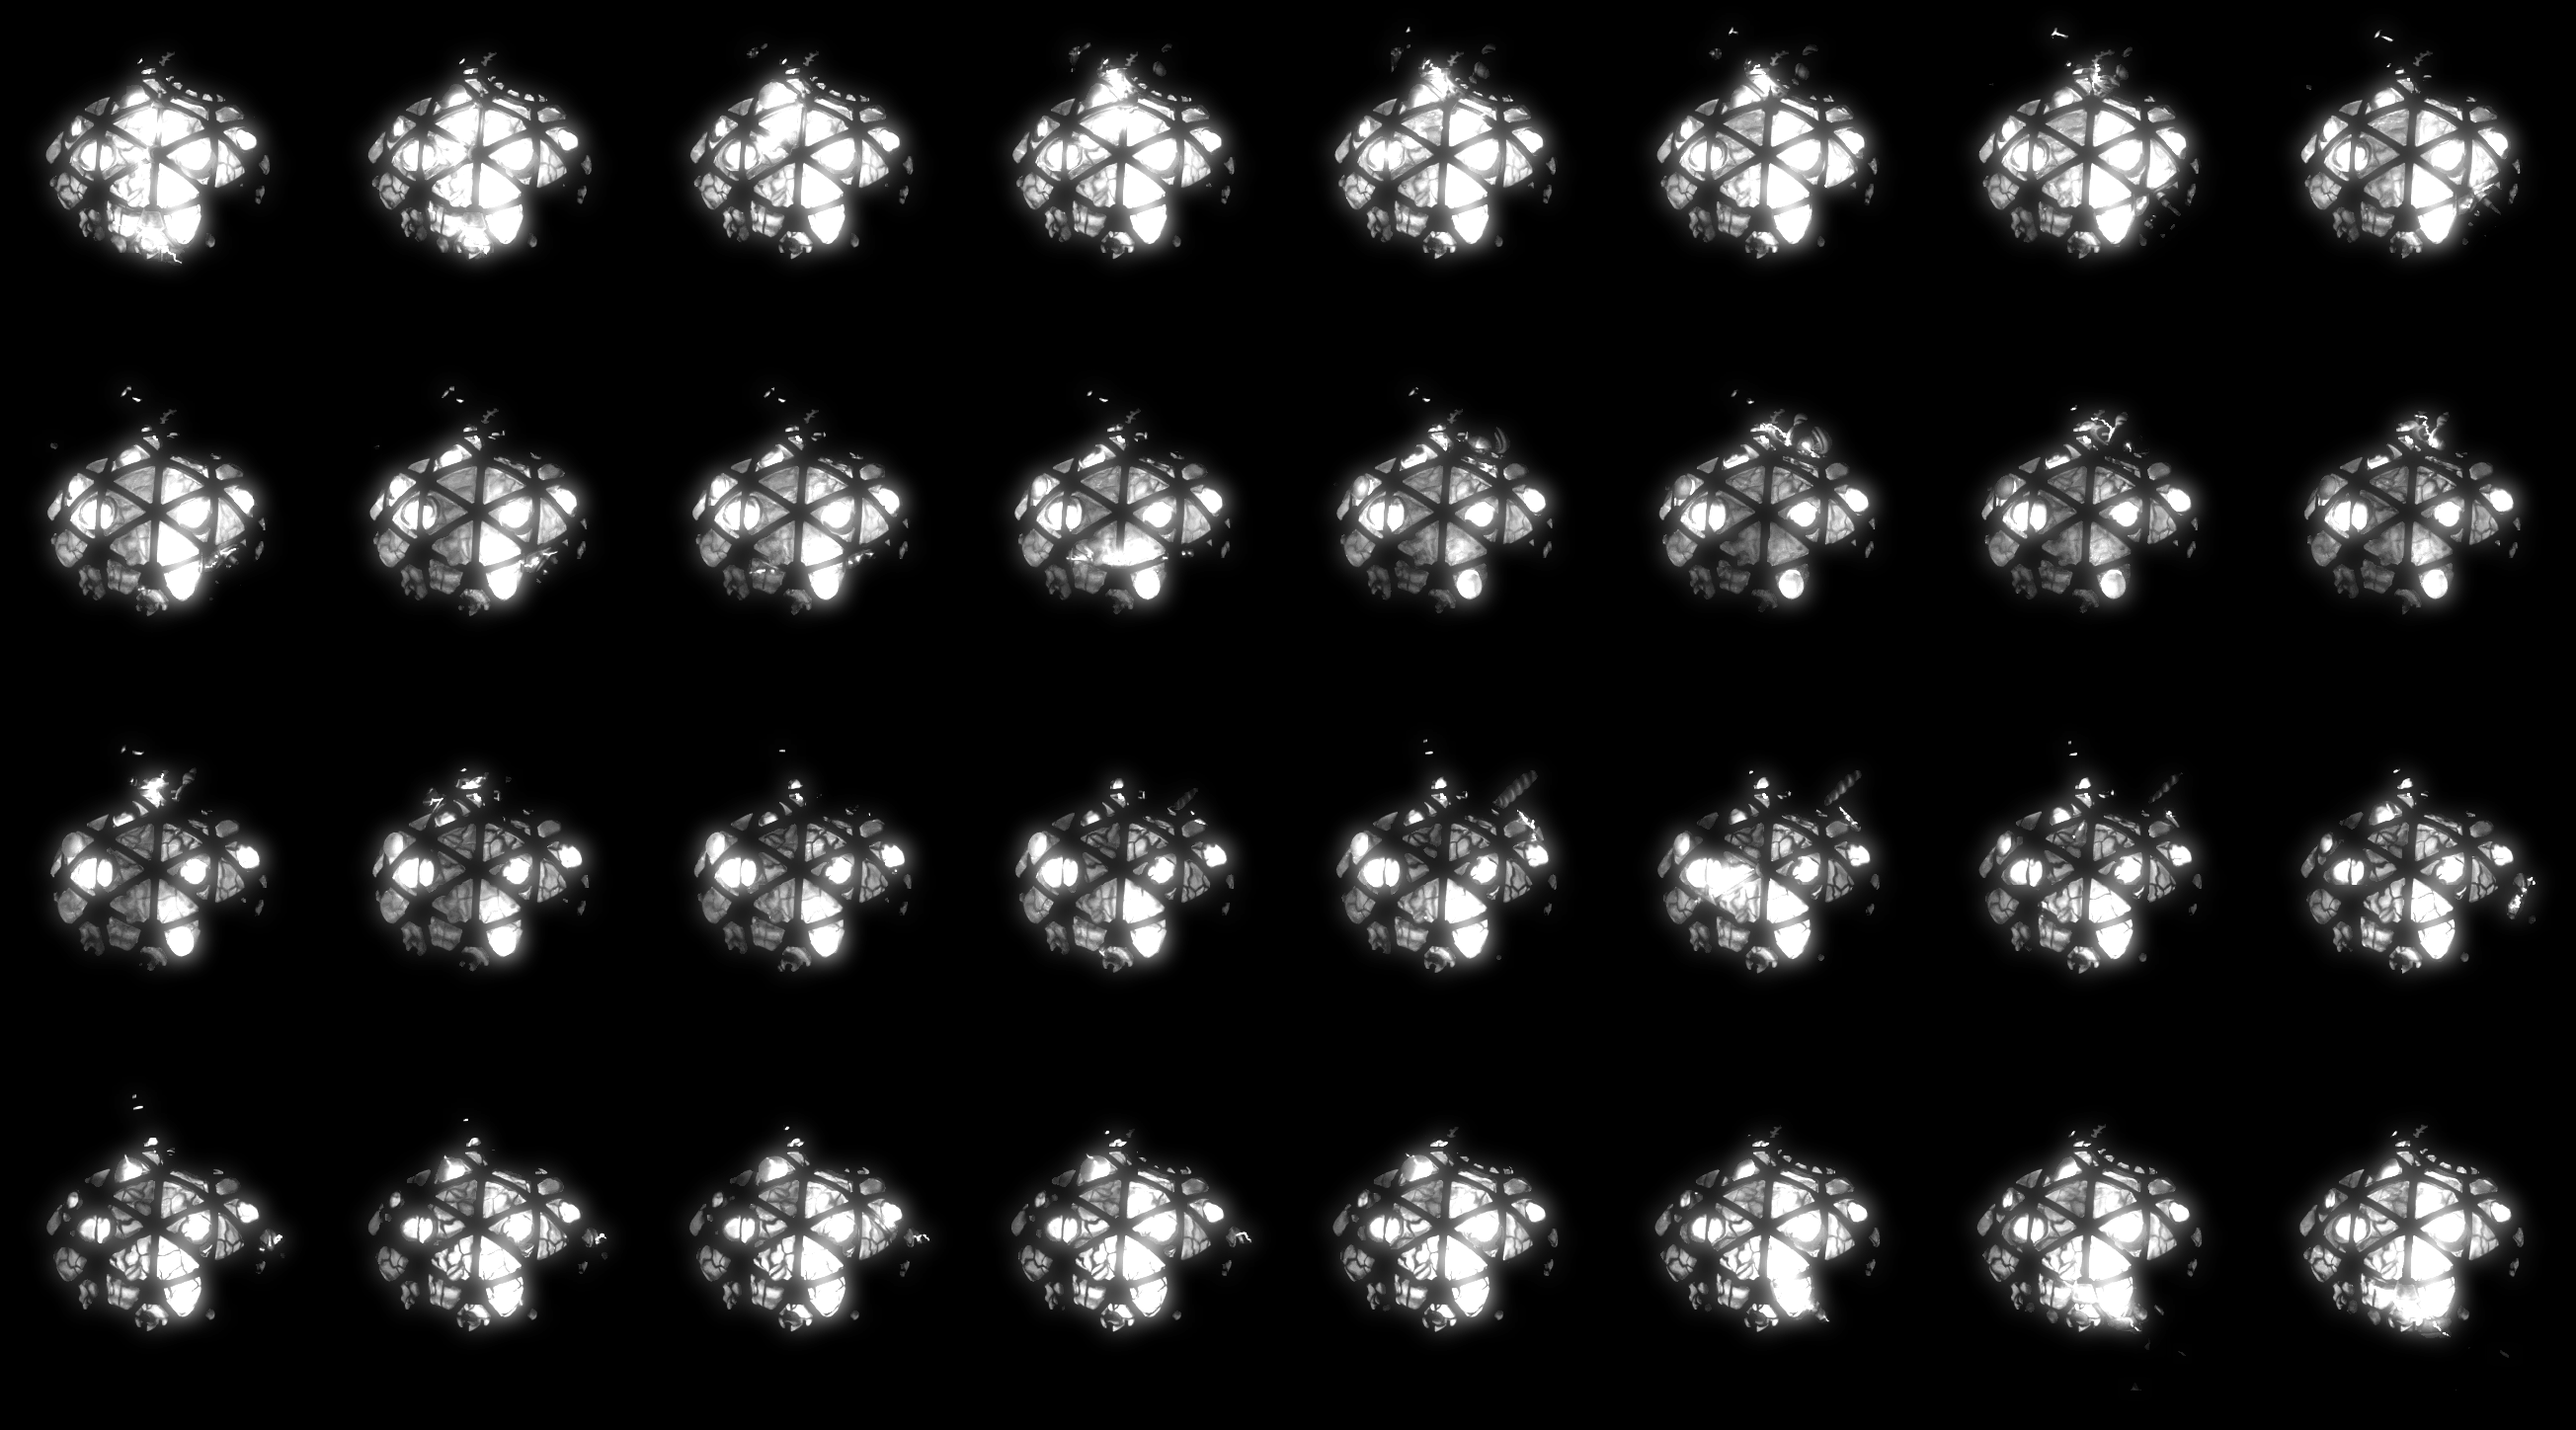
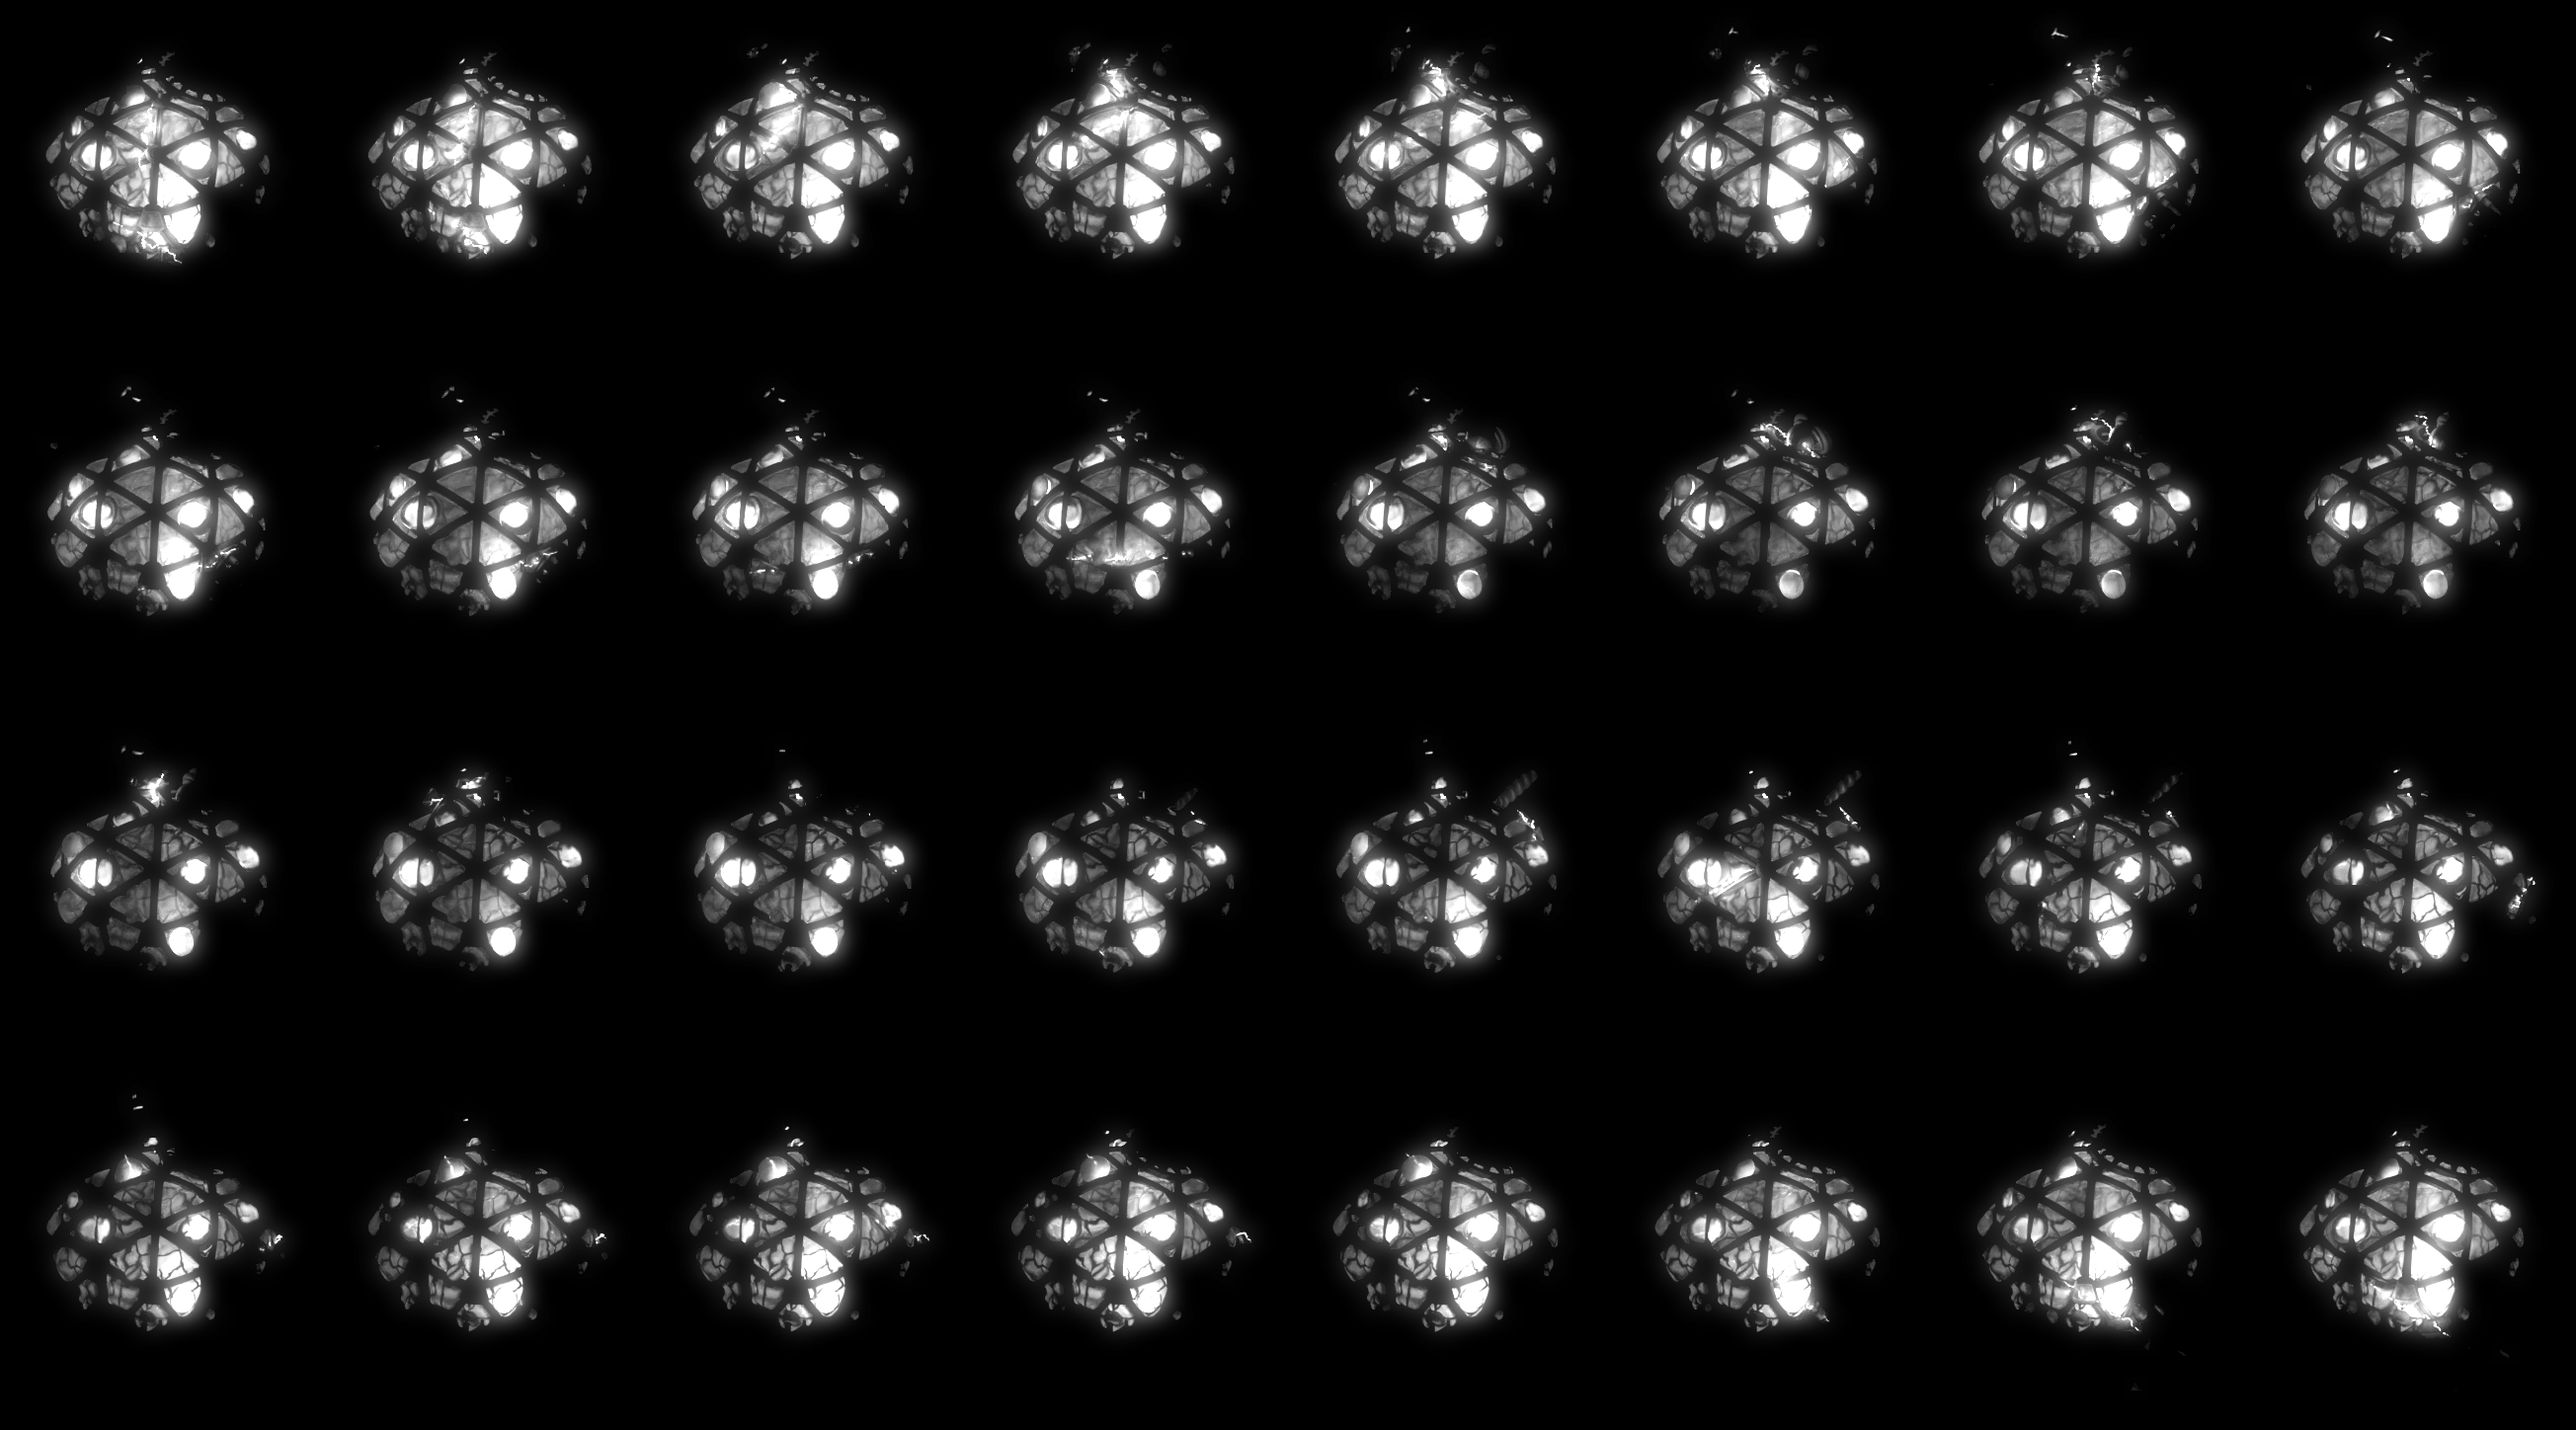
Remove unnecessary mask images

diff --git a/tasks/update-graphics.py b/tasks/update-graphics.py
@@ -123,42 +123,25 @@ def save_image(img: Image.Image, dst_path: Path) -> None:
 
 # --- Lab ---
 
-LAB_ANIM_SRC = FACTORIO_DATA / "base/graphics/entity/lab/lab.png"
-LAB_ANIM_FRAME_W, LAB_ANIM_FRAME_H = 194, 174
-LAB_ANIM_FRAME_SHIFT = (0, 1.5)
 LAB_LIGHT_SRC = FACTORIO_DATA / "base/graphics/entity/lab/lab-light.png"
 LAB_LIGHT_FRAME_W, LAB_LIGHT_FRAME_H = 216, 194
-LAB_LIGHT_FRAME_SHIFT = (0, 0)
 LAB_COLS = 11
 LAB_FRAMES = 33
 
-LAB_MASK_DST = GRAPHICS_DIR / "factorio/lab-mask.png"
 LAB_OVERLAY_DST = GRAPHICS_DIR / "factorio/lab-overlay.png"
 
 def generate_lab_images():
-    """Returns normalized per-frame brightness values."""
-    anim = np.array(Image.open(LAB_ANIM_SRC).convert("RGBA"))
     light = np.array(Image.open(LAB_LIGHT_SRC).convert("L")) # Grayscaled
 
     # Overlay: Brightening.
     overlay = (light * 1.5).clip(0, 255)
     save_image(Image.fromarray(overlay.astype(np.uint8), "L"), LAB_OVERLAY_DST)
 
-    # Masked: Lab animation with grayscaled pixels for the overlay.
-    mask_frames: list[np.ndarray] = []
+    # Get per-frame brightness for general overlay.
     frame_brightness: list[float] = []
     for i in range(LAB_FRAMES):
-        # Extract frame from grid image.
-        anim_frame = extract_frame(anim, i, LAB_ANIM_FRAME_W, LAB_ANIM_FRAME_H, LAB_COLS)
         light_frame = extract_frame(light, i, LAB_LIGHT_FRAME_W, LAB_LIGHT_FRAME_H, LAB_COLS)
-        # Append a new mask frame (transparent except where grayscaled).
-        mask = resize_mask(light_frame, LAB_ANIM_FRAME_W, LAB_ANIM_FRAME_H, LAB_ANIM_FRAME_SHIFT, LAB_LIGHT_FRAME_SHIFT)
-        mask_frames.append(make_mask_frame(anim_frame, mask > 10))
-        # Get light frame brightness for general overlay.
         frame_brightness.append(float(light_frame.mean()))
-
-    mask_assembled = assemble_grid(mask_frames, LAB_COLS)
-    save_image(Image.fromarray(mask_assembled, "LA"), LAB_MASK_DST)
 
     max_b = max(frame_brightness)
     generate_general_overlay([b / max_b for b in frame_brightness])
@@ -189,42 +172,19 @@ def generate_general_overlay(lab_frame_brightness: list[float]) -> None:
 
 # --- Biolab ---
 
-BIOLAB_ANIM_SRC = FACTORIO_DATA / "space-age/graphics/entity/biolab/biolab-anim.png"
-BIOLAB_ANIM_FRAME_W, BIOLAB_ANIM_FRAME_H = 366, 404
-BIOLAB_ANIM_FRAME_SHIFT = (2.0, -5.0)
 BIOLAB_LIGHT_SRC = FACTORIO_DATA / "space-age/graphics/entity/biolab/biolab-lights.png"
-BIOLAB_LIGHT_FRAME_W, BIOLAB_LIGHT_FRAME_H = 326, 362
-BIOLAB_LIGHT_FRAME_SHIFT = (1.0, -6.5)
-BIOLAB_COLS = 8
-BIOLAB_FRAMES = 32
 
-BIOLAB_MASK_DST = GRAPHICS_DIR / "factorio/biolab-mask.png"
 BIOLAB_OVERLAY_DST = GRAPHICS_DIR / "factorio/biolab-overlay.png"
 
 def generate_biolab_images():
-    anim = np.array(Image.open(BIOLAB_ANIM_SRC).convert("RGBA")).astype(np.float32)
     light = np.array(Image.open(BIOLAB_LIGHT_SRC).convert("L")).astype(np.float32) # Grayscaled
-    light = np.clip(light * 6.0, 0, 255) # Strong brightening
+    light = np.clip(light * 4.0, 0, 255) # Strong brightening
 
     # Additive-blend a blurred version for glow effect — apply blur once on the full sheet.
     light_blurred = np.array(Image.fromarray(light.astype(np.uint8), "L").filter(ImageFilter.GaussianBlur(radius=12))).astype(np.float32)
     light = np.clip(light + light_blurred * 1.5, 0, 255)
 
-    overlay_frames = []
-    mask_frames = []
-    for i in range(BIOLAB_FRAMES):
-        anim_frame = extract_frame(anim, i, BIOLAB_ANIM_FRAME_W, BIOLAB_ANIM_FRAME_H, BIOLAB_COLS)
-        light_frame = extract_frame(light, i, BIOLAB_LIGHT_FRAME_W, BIOLAB_LIGHT_FRAME_H, BIOLAB_COLS)
-        overlay_frames.append(light_frame)
-
-        sized_mask = resize_mask(light_frame, BIOLAB_ANIM_FRAME_W, BIOLAB_ANIM_FRAME_H, BIOLAB_ANIM_FRAME_SHIFT, BIOLAB_LIGHT_FRAME_SHIFT)
-        mask_frames.append(make_mask_frame(anim_frame.astype(np.uint8), sized_mask))
-
-    overlay_assembled = assemble_grid(overlay_frames, BIOLAB_COLS)
-    save_image(Image.fromarray(overlay_assembled.astype(np.uint8), "L"), BIOLAB_OVERLAY_DST)
-
-    mask_assembled = assemble_grid(mask_frames, BIOLAB_COLS)
-    save_image(Image.fromarray(mask_assembled, "LA"), BIOLAB_MASK_DST)
+    save_image(Image.fromarray(light.astype(np.uint8), "L"), BIOLAB_OVERLAY_DST)
 
 # --- LabOMatic (laborat) ---
 
@@ -285,46 +245,34 @@ def generate_laborat_images():
 
 KRASTORIO2_ASSETS_SRC = ROOT_DIR.parent / "Krastorio2Assets_*.zip"
 
-K2_ANIM_PATH = "buildings/singularity-lab/singularity-lab-working.png"
 K2_ANIM_FRAME_W, K2_ANIM_FRAME_H = 520, 500
 K2_ANIM_FRAME_SHIFT = (0, -0.1 * 64) # shift = { 0.0, -0.1 }, scale=0.5 → tiles * 32 / 0.5
-K2_ANIM_COLS = 10
 
-K2_MASK_PATH = "buildings/singularity-lab/singularity-lab-glow-light.png"
-K2_MASK_FRAME_W, K2_MASK_FRAME_H = 153, 117
-K2_MASK_FRAME_SHIFT = (0, -0.8 * 64) # shift = { 0, -0.8 }, scale=0.5 → tiles * 32 / 0.5
-K2_MASK_COLS = 6
+K2_GLOW_LIGHT_PATH = "buildings/singularity-lab/singularity-lab-glow-light.png"
+K2_GLOW_LIGHT_FRAME_W, K2_GLOW_LIGHT_FRAME_H = 153, 117
+K2_GLOW_LIGHT_FRAME_SHIFT = (0, -0.8 * 64) # shift = { 0, -0.8 }, scale=0.5 → tiles * 32 / 0.5
+K2_GLOW_LIGHT_COLS = 6
 
 K2_FRAMES = 60
 
 K2_DST_DIR = GRAPHICS_DIR / "Krastorio2"
-K2_MASK_DST = K2_DST_DIR / "singularity-lab-mask.png"
 K2_OVERLAY_DST = K2_DST_DIR / "singularity-lab-overlay.png"
 
 def generate_krastorio2_images():
     with open_mod_zip(KRASTORIO2_ASSETS_SRC) as open_file:
-        with open_file(K2_ANIM_PATH) as f:
-            anim_img = Image.open(f).convert("RGBA")
-        with open_file(K2_MASK_PATH) as f:
+        with open_file(K2_GLOW_LIGHT_PATH) as f:
             light_img = Image.open(f).convert("RGBA")
 
-    anim = np.array(fill_black_background(anim_img)).astype(np.float32)
     light = np.array(fill_black_background(light_img).convert("L")).astype(np.float32)
 
-    mask_frames: list[np.ndarray] = []
     static_overlay = np.zeros((K2_ANIM_FRAME_H, K2_ANIM_FRAME_W), dtype=np.float32)
     for i in range(K2_FRAMES):
-        anim_frame = extract_frame(anim, i, K2_ANIM_FRAME_W, K2_ANIM_FRAME_H, K2_ANIM_COLS)
-        light_frame = extract_frame(light, i, K2_MASK_FRAME_W, K2_MASK_FRAME_H, K2_MASK_COLS)
-        sized_mask = resize_mask(light_frame, K2_ANIM_FRAME_W, K2_ANIM_FRAME_H, K2_ANIM_FRAME_SHIFT, K2_MASK_FRAME_SHIFT)
-        mask_frames.append(make_mask_frame(anim_frame.astype(np.uint8), sized_mask > 10))
-        static_overlay = np.maximum(static_overlay, sized_mask)
+        light_frame = extract_frame(light, i, K2_GLOW_LIGHT_FRAME_W, K2_GLOW_LIGHT_FRAME_H, K2_GLOW_LIGHT_COLS)
+        sized = resize_mask(light_frame, K2_ANIM_FRAME_W, K2_ANIM_FRAME_H, K2_ANIM_FRAME_SHIFT, K2_GLOW_LIGHT_FRAME_SHIFT)
+        static_overlay = np.maximum(static_overlay, sized)
 
     static_overlay = np.clip(static_overlay * 0.8, 0, 255)
     save_image(Image.fromarray(static_overlay.astype(np.uint8), "L"), K2_OVERLAY_DST)
-
-    mask_assembled = assemble_grid(mask_frames, K2_ANIM_COLS)
-    save_image(Image.fromarray(mask_assembled, "LA"), K2_MASK_DST)
 
 # --- main ---
 
